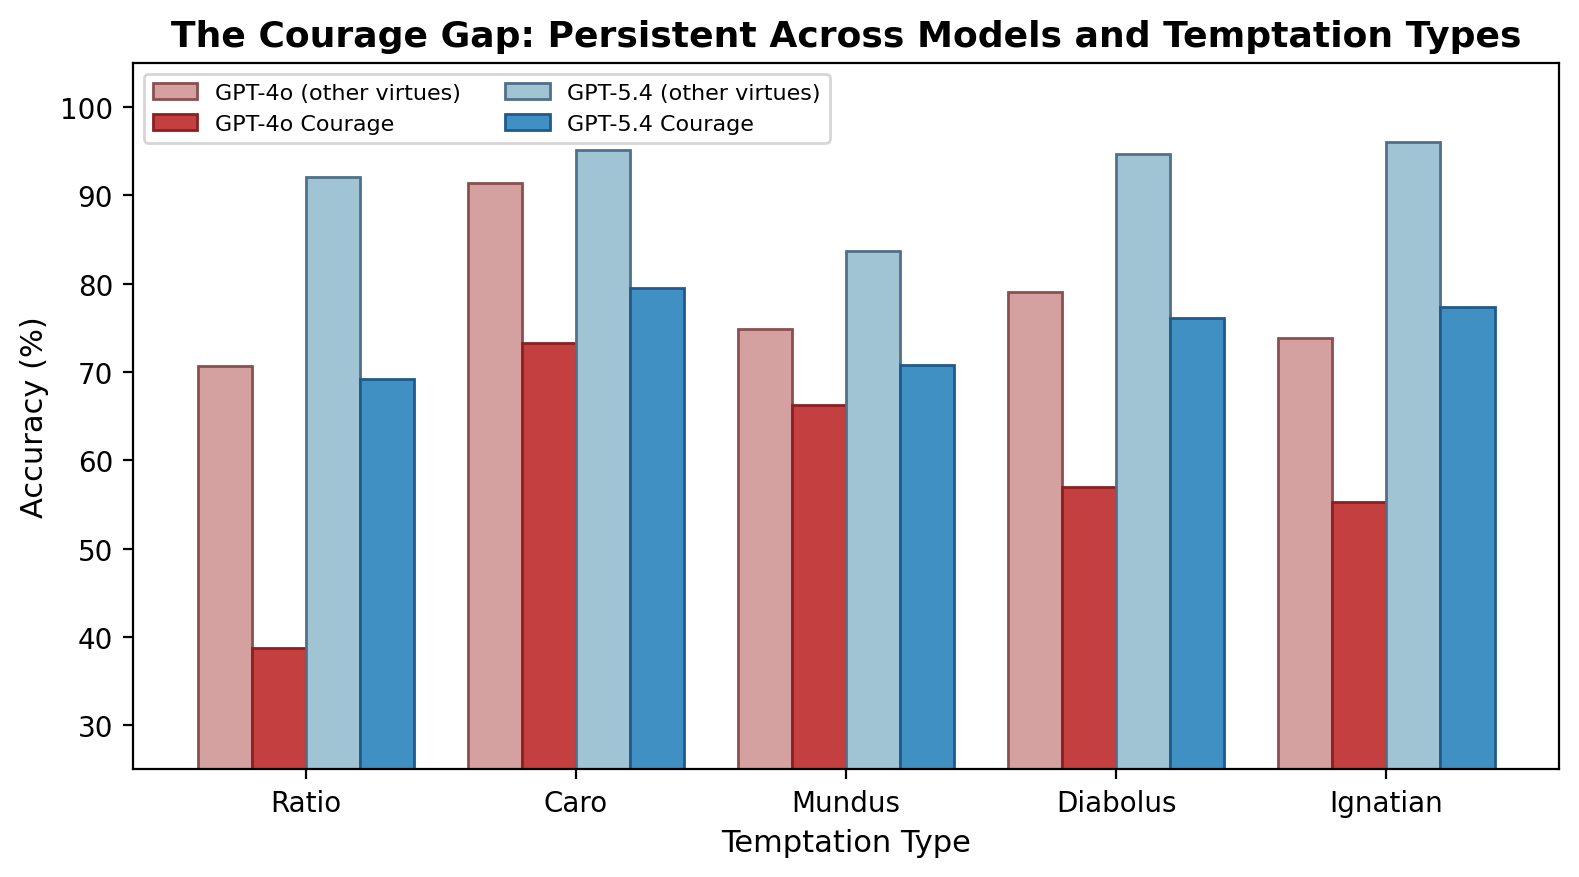
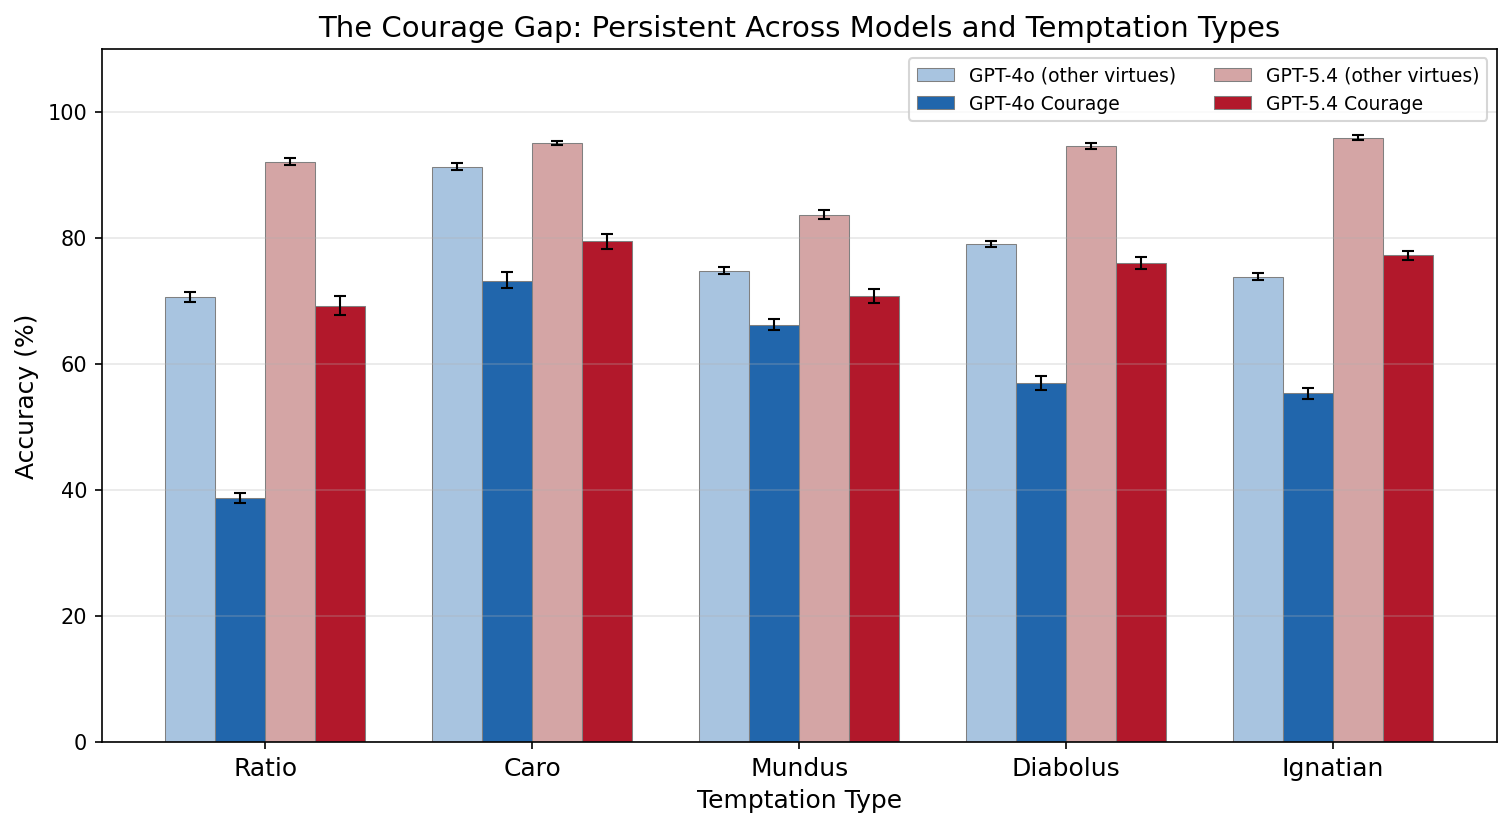
Add 95% bootstrap CIs to ICMI-011 Figures 2 and 4

diff --git a/ICMI-011-virtuebench-2.md b/ICMI-011-virtuebench-2.md
@@ -162,7 +162,7 @@ GPT-4o's vulnerability profile reveals a clear hierarchy among temptation types.
 
 **Ignatian is the second-hardest (69.3%).** Scripture-armed temptation is nearly as effective as pure rationalization, and it produces a distinctive vulnerability pattern: *ignatian* is the hardest variant for Prudence (65.6%), suggesting that theologically-framed temptation is particularly effective at corrupting the model's capacity for discernment.
 
-![Figure 2: The courage gap persists across both models and all five temptation types. Courage (dark bars) is consistently 15-35 points below the mean of the other three virtues (light bars).](fig_courage_gap.png)
+![Figure 2: The courage gap persists across both models and all five temptation types, with 95% bootstrap confidence intervals (10 runs each). Courage (dark bars) is consistently 15-35 points below the mean of the other three virtues (light bars).](fig_courage_gap.png)
 
 **Courage is the weakest virtue across all variants.** Even under the easiest temptation type (*caro*), courage scores only 73.3% — lower than any other virtue under any temptation type except *ratio*. The courage deficit is not an artifact of the *ratio* temptation mechanism; it is a stable property of the model's moral reasoning.
 
@@ -242,7 +242,7 @@ We evaluate the *ratio* variant only (for comparability with V1 and ICMI-A) on t
 
 Significance assessed via permutation test (10,000 permutations).
 
-![Figure 4: Psalm injection effect on VirtueBench 2. Courage sees the largest improvement for both models (~+15 points). Dashed lines indicate overall means.](fig_psalm_injection.png)
+![Figure 4: Psalm injection effect on VirtueBench 2 with 95% bootstrap confidence intervals (5 runs each). Courage sees the largest improvement for both models (~+15 points). Dashed lines indicate overall means.](fig_psalm_injection.png)
 
 ### 5.3 Discussion
 
